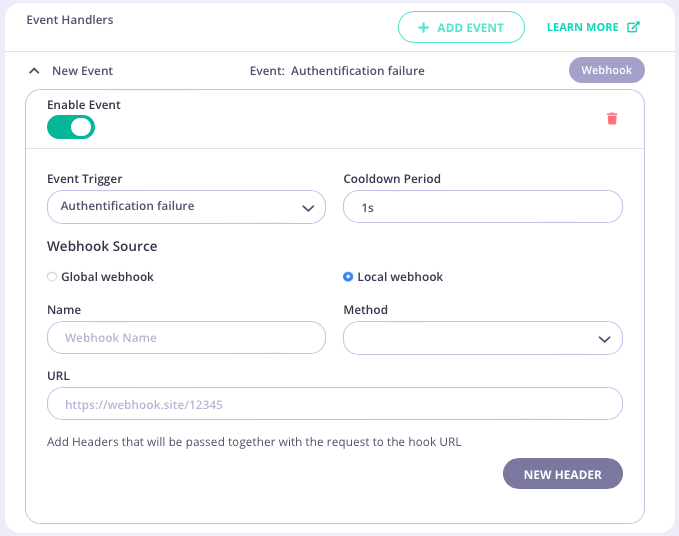
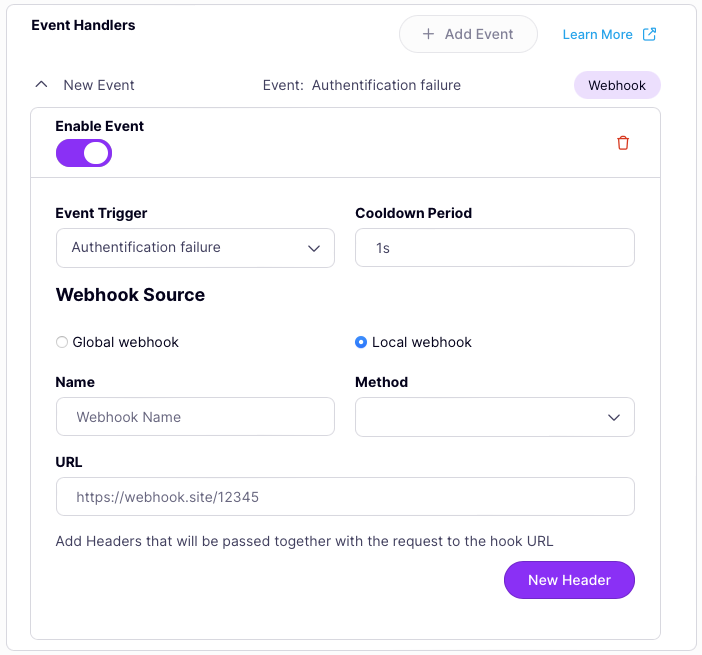
[DX-1593] Updated event handling for 5.5 UI (#5179)
Updated event handling for 5.5 UI

diff --git a/tyk-docs/content/product-stack/tyk-gateway/basic-config-and-security/report-monitor-and-trigger-events/event-webhook-tyk-oas.md b/tyk-docs/content/product-stack/tyk-gateway/basic-config-and-security/report-monitor-and-trigger-events/event-webhook-tyk-oas.md
@@ -169,7 +169,7 @@ If you want to use a *global webhook* then you'll need to declare it first, foll
 
 #### Step 1: Add event handler
 
-From the **Settings** tab in the API Designer, scroll down to the **Server** section to find the **Event Handlers** pane. Select **ADD EVENT**.
+From the **Settings** tab in the API Designer, scroll down to the **Server** section to find the **Event Handlers** pane. Select **Add Event**.
 
 {{< img src="/img/dashboard/api-designer/tyk-oas-webhook-server.png" alt="Add an event handler from the Server section" >}}
 
@@ -191,7 +191,7 @@ Note that Tyk automatically retrieves the details of the *global webhook* and di
 
 {{< img src="/img/dashboard/api-designer/tyk-oas-webhook-global-complete.png" alt="A fully configured global webhook" >}}
 
-Don't forget to select **SAVE API** to apply the changes.
+Don't forget to select **Save API** to apply the changes.
 
 #### Step 3b: Configure local webhook
 
@@ -199,8 +199,8 @@ If you don't want to use a shared *global webhook* but instead want to configure
 
 {{< img src="/img/dashboard/api-designer/tyk-oas-webhook-local.png" alt="Ready to configure a local webhook">}}
 
-Now you can complete the various fields to set up your *local webhook*. If you want to add custom headers to send with the HTTP request, select **NEW HEADER** then enter the header key and value.
+Now you can complete the various fields to set up your *local webhook*. If you want to add custom headers to send with the HTTP request, select **New Header** then enter the header key and value.
 
 {{< img src="/img/dashboard/api-designer/tyk-oas-webhook-local-complete.png" alt="A fully configured global webhook" >}}
 
-Don't forget to select **SAVE API** to apply the changes.
+Don't forget to select **Save API** to apply the changes.

diff --git a/tyk-docs/content/product-stack/tyk-gateway/basic-config-and-security/report-monitor-and-trigger-events/event-webhook-tyk-classic.md b/tyk-docs/content/product-stack/tyk-gateway/basic-config-and-security/report-monitor-and-trigger-events/event-webhook-tyk-classic.md
@@ -79,8 +79,8 @@ Now:
 - select the *API Event* for which you want to trigger the webhook from the dropdown list
 - select the *Webhook to use* when the event fires, again from the dropdown list
 - finally, configure the required *Cooldown period*
-- click **ADD**
+- click **Add**
 
 Note that you can register multiple webhooks to be triggered in response to a single event and you can register the same webhook with multiple API events.
 
-Remember to click **UPDATE** to save your changes.
+Remember to click **Save** to save your changes.

diff --git a/tyk-docs/content/basic-config-and-security/report-monitor-trigger-events/webhooks.md b/tyk-docs/content/basic-config-and-security/report-monitor-trigger-events/webhooks.md
@@ -98,7 +98,7 @@ Select **Webhooks** from the **API Management** Menu:
 
 {{< img src="/img/2.10/webhooks_menu.png" alt="Webhooks menu item" >}}
 
-Click **ADD WEBHOOK**.
+Click **Add Webhook**.
 
 {{< img src="/img/2.10/add_webhook.png" alt="Add webhook button" >}}
 
@@ -108,7 +108,7 @@ Now you need to tell Tyk how and where to send the request. You can include cust
 
 {{< img src="/img/2.10/webhook_details.png" alt="Add webhook detail" >}}
 
-Click **SAVE** to save it.
+Click **Save** to save it.
 
 <hr>
 
